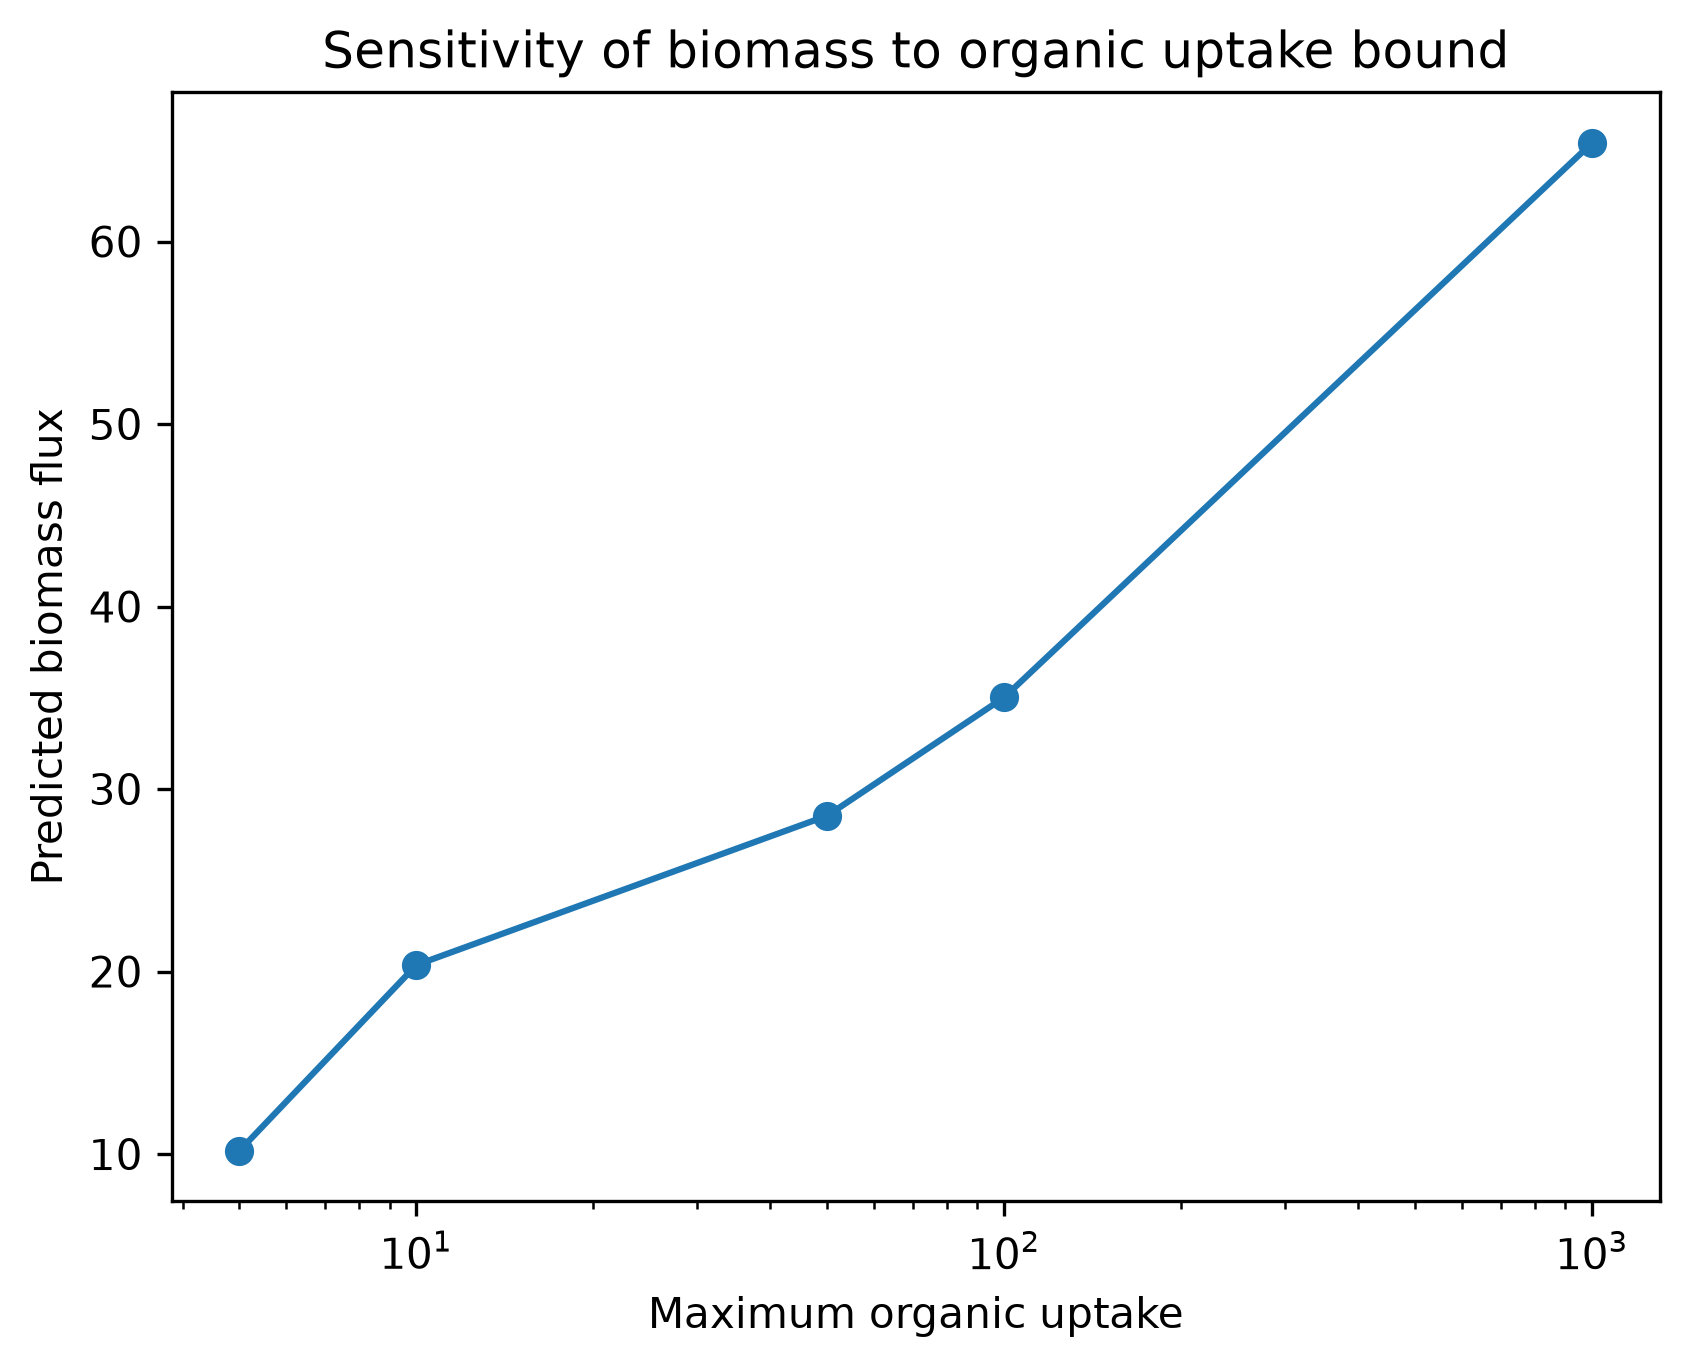
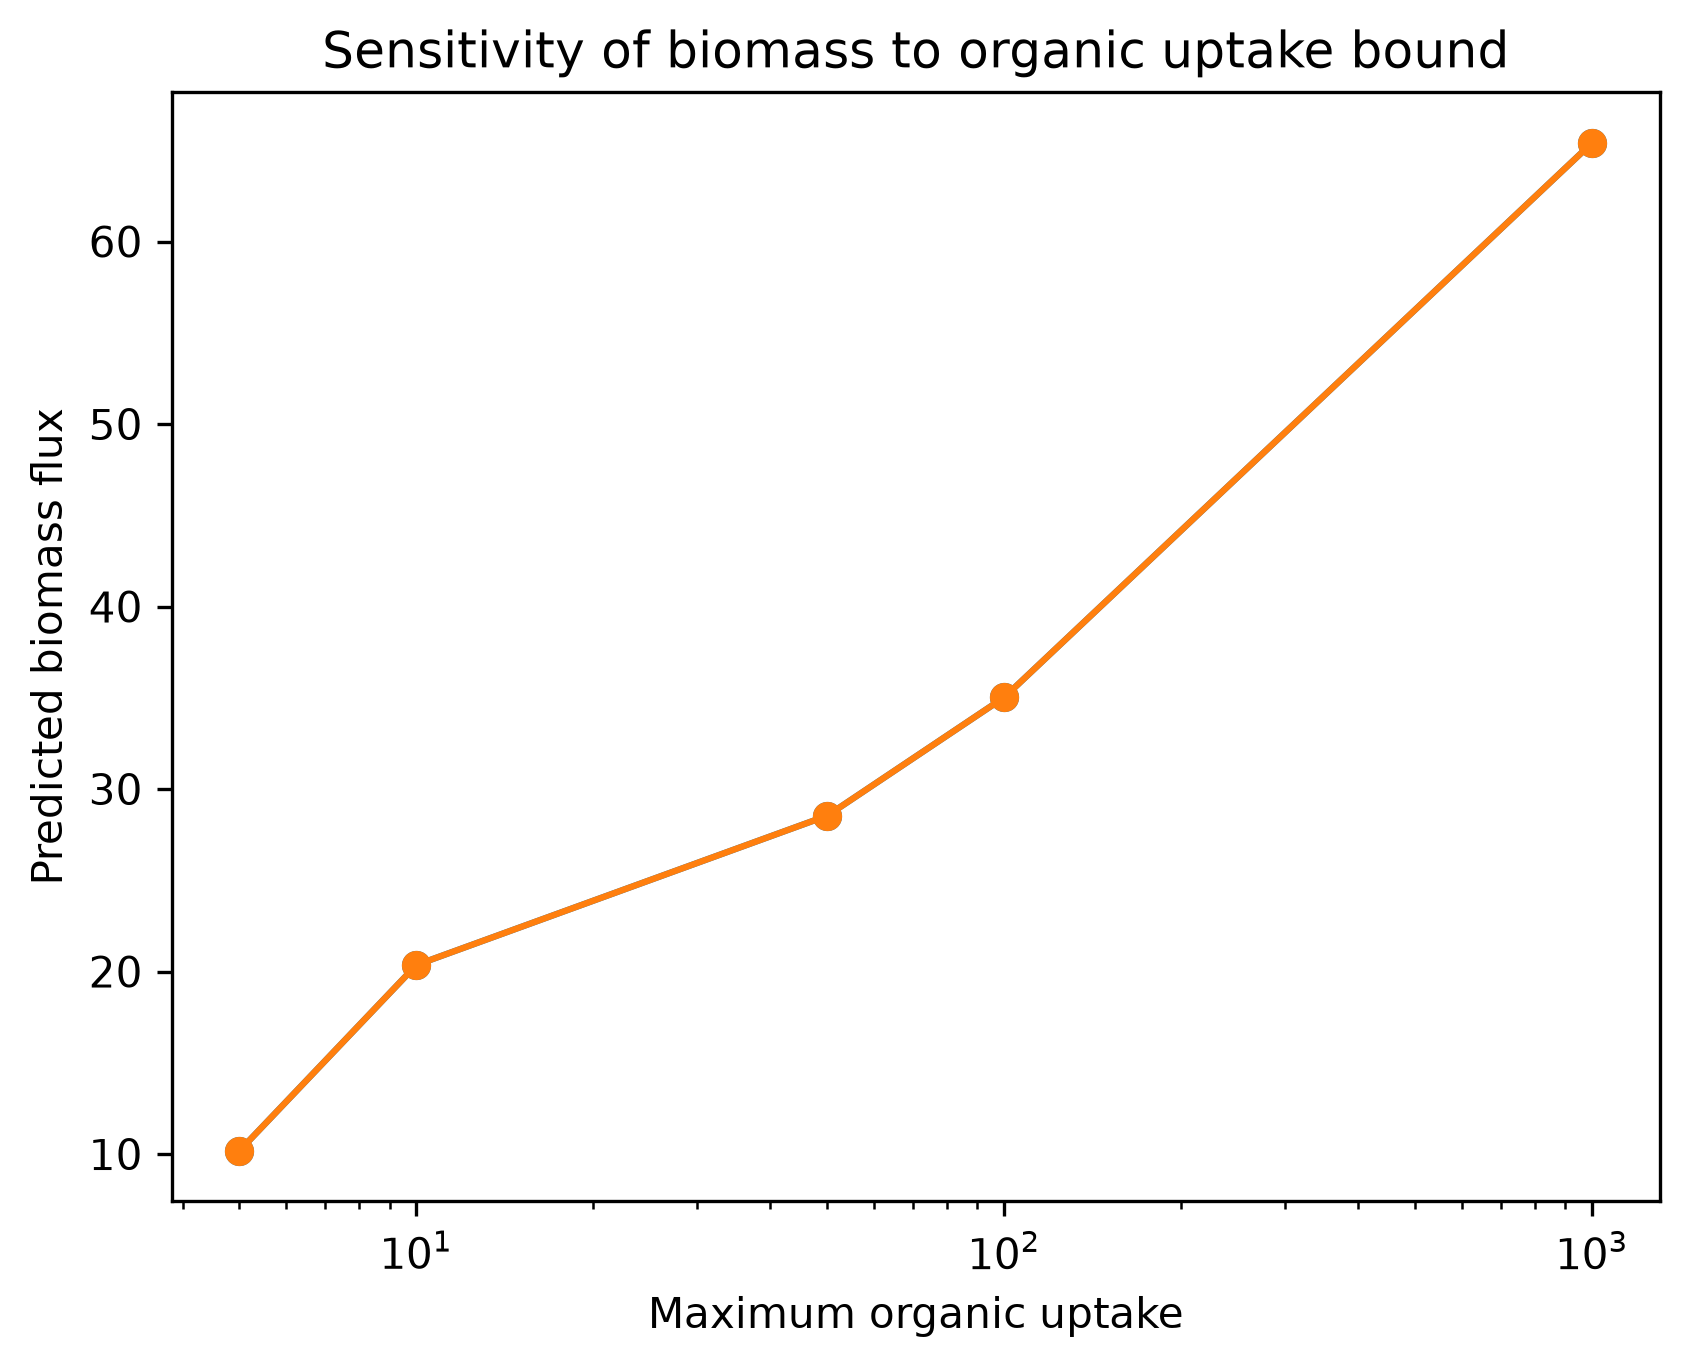
update project

diff --git a/scripts/baseline.py b/scripts/baseline.py
@@ -15,9 +15,9 @@ print("Status:", solution.status)
 print("Biomass:", solution.objective_value)
 
 # which nutrients is the model using?
-import cobra as cob
+import cobra
 
-pfba_solution = cob.flux_analysis.pfba(model)
+pfba_solution = cobra.flux_analysis.pfba(model)
 
 for rxn_id in medium:
     flux = pfba_solution.fluxes[rxn_id]
@@ -25,7 +25,7 @@ for rxn_id in medium:
     if flux < -1e-6:
         print(rxn_id, model.reactions.get_by_id(rxn_id).name, flux)
 
-# there are some satured uptake bounds. let's isolate them.
+# there are some saturated uptake bounds. let's isolate them.
 
 print("\nuptake reactions at their maximum bound:")
 
@@ -38,7 +38,20 @@ for rxn_id, bound in medium.items():
         if saturation > 0.99:
             rxn = model.reactions.get_by_id(rxn_id)
             print(rxn.name, flux, "saturation", saturation)
-    
+
+saturated_rxn = []
+for rxn_id, bound in medium.items():
+    flux = pfba_solution.fluxes[rxn_id]
+
+    if flux < -1e-6:
+        saturation = -flux / bound
+
+        if saturation > 0.99:
+            rxn = model.reactions.get_by_id(rxn_id)
+            saturated_rxn.append(rxn)
+
+print(f"{len(saturated_rxn)} reactions are saturated.")
+
 # 21 of the uptake reactions are running at their maximum flux of 10. So, the biomass reaction of 20.36 is not a robust prediction.
 # Next step is to restructure the medium function in a way that the organic uptake reactions can vary a little bit.
 
@@ -48,8 +61,8 @@ sensitivity_results = []
 
 for bound in organic_bounds:
     with model:
-        medium = build_hams_medium(organic_uptake=bound)
-        model.medium = medium
+        test_medium = build_hams_medium(organic_uptake=bound)
+        model.medium = test_medium
 
         solution = model.optimize()
 
@@ -69,7 +82,7 @@ sensitivity_df = pd.DataFrame(sensitivity_results)
 print(sensitivity_df)
 
 sensitivity_df.to_csv(
-    "results/medium_sensitivity.csv",
+    "../results/medium_sensitivity.csv",
     index=False
 )
 
@@ -88,10 +101,9 @@ plt.title("Sensitivity of biomass to organic uptake bound")
 plt.xscale("log")
 
 plt.savefig(
-    "results/medium_sensitivity.png",
+    "../results/medium_sensitivity.png",
     dpi=300,
     bbox_inches="tight"
 )
 
 plt.close()
-

diff --git a/scripts/exploration/01_import_model.py b/scripts/exploration/01_import_model.py
@@ -26,7 +26,7 @@ print("n uptake reactions:", len(medium))
 
 for rxn_id, uptake in list(medium.items())[:10]:
     rxn = model.reactions.get_by_id(rxn_id)
-    print(rxn_id,:verbose map <C-CR> rxn.name, uptake)
+    print(rxn_id, rxn.name, uptake)
 
 # atp exchange reaction
 atp_ex = model.reactions.get_by_id("MAR00569")
